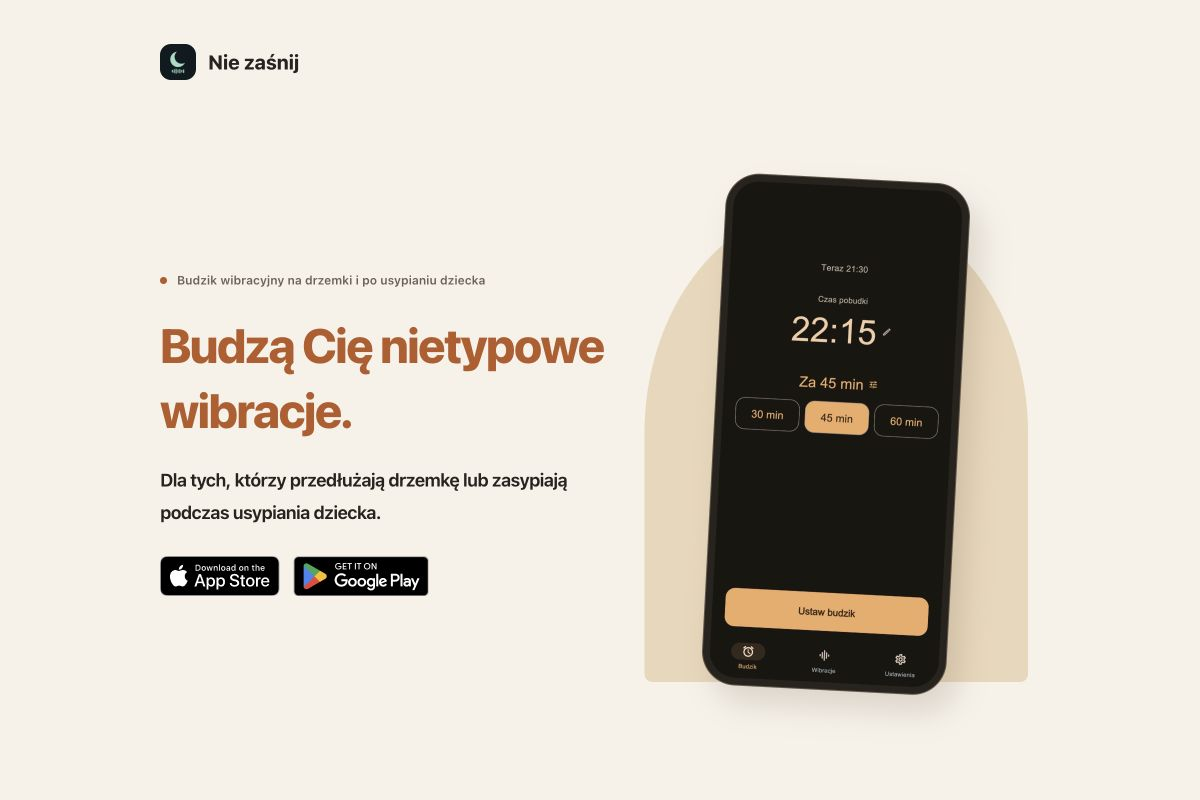
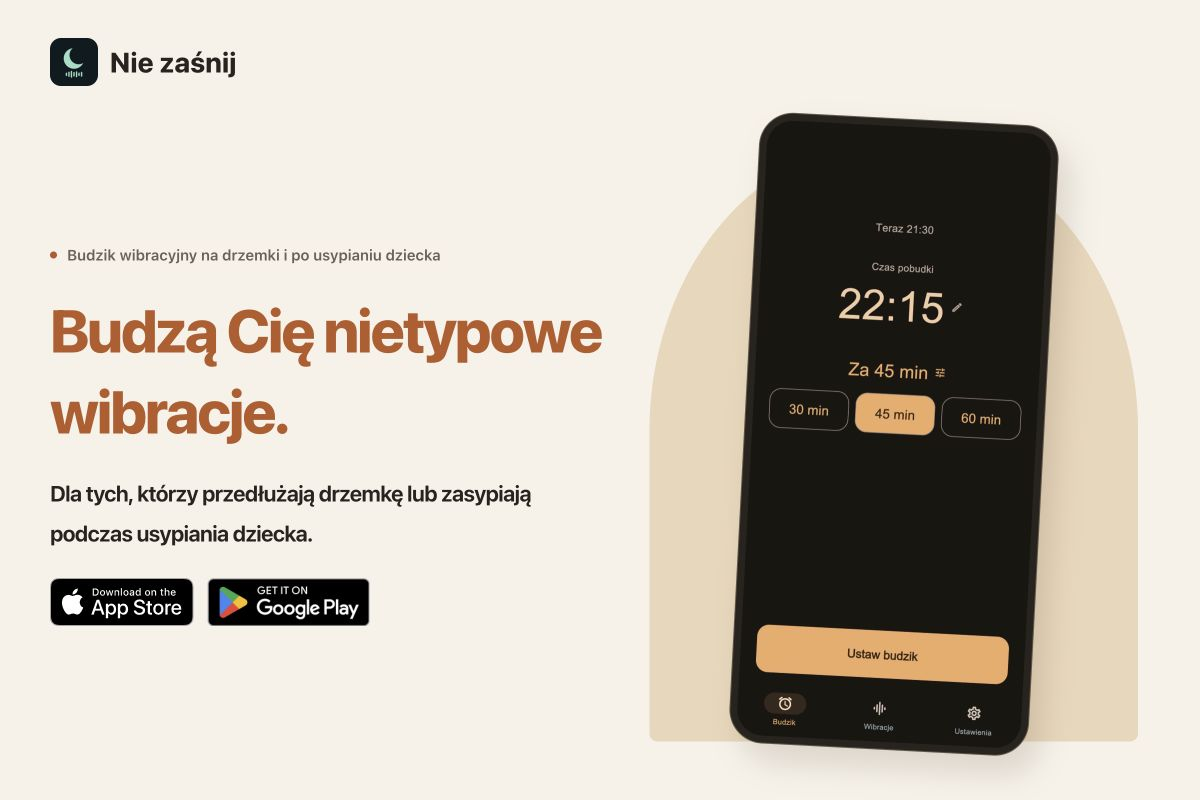
Enlarge NemuCue social preview elements for thumbnail readability

diff --git a/NemuCue/tools/prepare_ogp_capture.py b/NemuCue/tools/prepare_ogp_capture.py
@@ -5,16 +5,16 @@ folder=root/'_ogp';folder.mkdir(exist_ok=True)
 css='''
 html{scroll-behavior:auto!important}body{width:1200px;height:800px;overflow:hidden;margin:0}
 .skip,.header nav,.header .language-picker,.header .header-cta,.hero .actions,.hero figcaption,.hero .carousel-controls,main>section:not(.hero),main>.overview,.footer{display:none!important}
-.header.wrap{width:880px;min-height:96px;height:96px;border:0;display:flex!important;flex-wrap:nowrap!important;padding:28px 0 0!important;margin:0 auto;gap:0!important}
-.header .brand{font-size:20px!important;max-width:100%!important}.header .brand img{width:36px}
-.hero.wrap{width:880px;height:704px;display:grid;grid-template-columns:1.1fr 1fr;align-items:center;gap:24px;padding:0 0 28px!important;margin:0 auto}
-.hero .hero-copy{min-width:0;max-width:none}.hero .category{font-size:12px;line-height:1.7;letter-spacing:0}
-.hero h1,html[lang=en] .hero h1,html:not([lang=ja]):not([lang=en]) .hero h1{font-size:48px!important;line-height:1.35!important;margin:22px 0!important;letter-spacing:-.035em}
-.hero .audience,html[lang=en] .hero .audience,html:not([lang=ja]):not([lang=en]) .hero .audience{font-size:18px!important;line-height:1.8}
-.hero .store-links{margin-top:25px;gap:14px}.hero .store-badge img{height:40px}
-.hero .hero-visual{padding:0;max-width:none;width:100%}.hero .hero-visual .phone{width:245px;box-shadow:12px 18px 30px #52371b28}
+.header.wrap{width:1100px;min-height:96px;height:96px;border:0;display:flex!important;flex-wrap:nowrap!important;padding:28px 0 0!important;margin:0 auto;gap:0!important}
+.header .brand{font-size:28px!important;max-width:100%!important}.header .brand img{width:48px}
+.hero.wrap{width:1100px;height:704px;display:grid;grid-template-columns:1.1fr 1fr;align-items:center;gap:24px;padding:0 0 28px!important;margin:0 auto}
+.hero .hero-copy{min-width:0;max-width:none}.hero .category{font-size:15px;line-height:1.7;letter-spacing:0}
+.hero h1,html[lang=en] .hero h1,html:not([lang=ja]):not([lang=en]) .hero h1{font-size:60px!important;line-height:1.35!important;margin:22px 0!important;letter-spacing:-.035em}
+.hero .audience,html[lang=en] .hero .audience,html:not([lang=ja]):not([lang=en]) .hero .audience{font-size:22px!important;line-height:1.8}
+.hero .store-links{margin-top:25px;gap:14px}.hero .store-badge img{height:48px}
+.hero .hero-visual{padding:0;max-width:none;width:100%}.hero .hero-visual .phone{width:300px;box-shadow:12px 18px 30px #52371b28}
 .hero .hero-backdrop{inset:25px 12px 8px 12px}
-html[lang=ja] .hero h1{font-size:62px!important}
+html[lang=ja] .hero h1{font-size:78px!important}
 html:lang(ar) .hero h1,html:lang(hi) .hero h1,html:lang(th) .hero h1{letter-spacing:normal!important;line-height:1.5!important}
 '''
 for locale in json.loads((root/'content/locales.json').read_text()):

diff --git a/NemuCue/README.md b/NemuCue/README.md
@@ -77,7 +77,7 @@ Each KV screenshot has a localized sentence explaining its use or benefit. Capti
 
 ## OGP images
 
-`images/ogp/<locale>.jpg` contains browser screenshots of each localized KV at 1200×800. The 3:2 image ratio and compact centered capture layout keep the headline, real app screen, app name and store badges together. These are deterministic screenshots of the first carousel slide, not generated illustrations. The shared `/NemuCue/` entry uses the Japanese image so social crawlers do not depend on JavaScript; language-specific pages use their own image. Open Graph dimensions, image alt text and Twitter large-image tags are set explicitly.
+`images/ogp/<locale>.jpg` contains browser screenshots of each localized KV at 1200×800. The 3:2 image ratio and centered capture layout keep the headline, real app screen, app name and store badges together. The capture fills a 1100px-wide area with a 300px phone, a 78px Japanese headline (60px in other locales), 22px audience text and a larger app name to stay readable in thumbnails. These are deterministic screenshots of the first carousel slide, not generated illustrations. The shared `/NemuCue/` entry uses the Japanese image so social crawlers do not depend on JavaScript; language-specific pages use their own image. Open Graph dimensions, image alt text and Twitter large-image tags are set explicitly.
 
 The live desktop KV is limited to 1000px with a 24px column gap to bring the copy and phone closer to the center. Mobile retains its existing single-column layout. The stylesheet URL includes a content hash for cache refresh.
 
